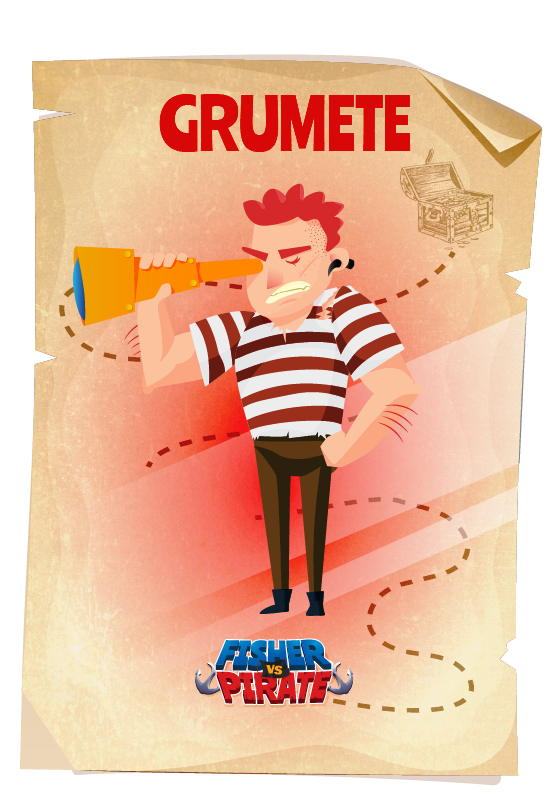
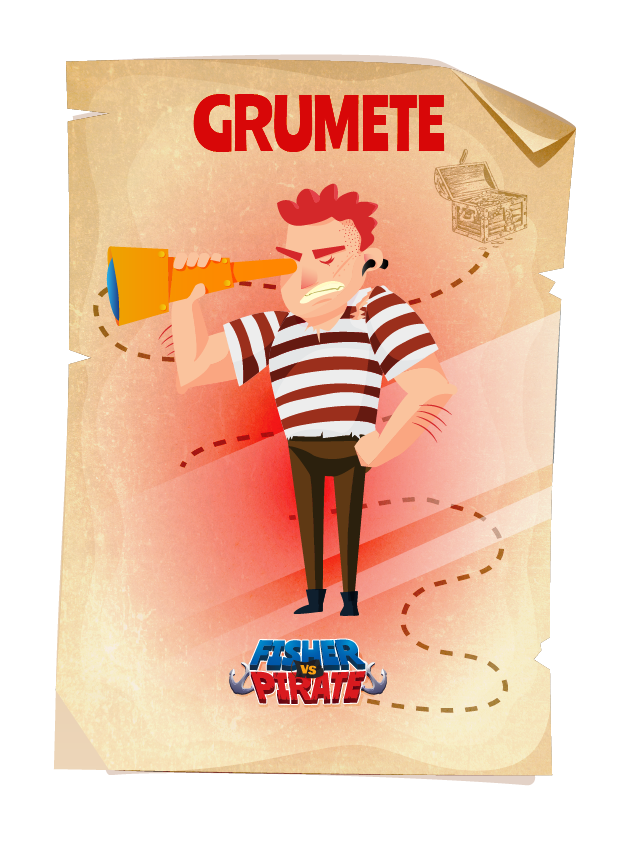
segunda seccion

diff --git a/index.html b/index.html
@@ -69,10 +69,50 @@
         <div class="container navbar-hero justify-content-around">
             <div class="row">
                 <div class="col-xs-12 col-md-4 col-lg-4 text-center background-azul"><span>NFT CONTRACT</span></div>
-                <div class="col-xs-12 col-md-4 col-lg-4 text-center background-azul"><span>TOKEN CONTRACT FVP</span></div>
-                <div class="col-xs-12 col-md-4 col-lg-4 text-center background-azul"><span>TOKEN CONTRACT SC</span></div>
+                <div class="col-xs-12 col-md-4 col-lg-4 text-center background-azul"><span>TOKEN CONTRACT FVP</span>
+                </div>
+                <div class="col-xs-12 col-md-4 col-lg-4 text-center background-azul"><span>TOKEN CONTRACT SC</span>
+                </div>
             </div>
         </div>
+
+    </div>
+
+    <div class="segundo-background">
+
+        <!-- NFT PLAY TO EARN -->
+        <div class="mx-auto d-block letrero-0"><span>NFT PLAY TO EARN</span></div>
+        <div class="container cards-container">
+
+            <div class="row">
+                <div class="card col-xs-12 col-sm-4 col-md-4 col-lg-4 text-center">
+                    <div class="mx-auto d-block letrero-01"><span>CHARACTERS</span></div>
+                    <!-- <img src="img/personajes/grumete.png" alt="" width="80%"loading="lazy"/> -->
+                    <img src="img/personajes/grumete.png" alt="" width="70%" id="character" loading="lazy" />
+                    <img src="img/arrows/left.png" alt="" width="50px" class="left"
+                        onClick={downCharacter}loading="lazy" />
+                    <img src="img/arrows/right.png" alt="" width="50px" class="right"
+                        onClick={addCharacter}loading="lazy" />
+                </div>
+                <div class="card col-xs-12 col-sm-4 col-md-4 col-lg-4 text-center">
+                    <div class="mx-auto d-block letrero-01"><span>SHIPS</span></div>
+                    <!-- <img src={ships} alt="" width="80%" loading="lazy"/> -->
+                    <img src="img/personajes/ship.png" alt="" width="70%" id="character" loading="lazy" />
+                    <img src="img/arrows/left.png" alt="" width="50px" class="left" onClick={downShip}loading="lazy" />
+                    <img src="img/arrows/right.png" alt="" width="50px" class="right" onClick={addShip}loading="lazy" />
+                </div>
+                <div class="card col-xs-12 col-sm-4 col-md-4 col-lg-4 text-center">
+                    <div class="mx-auto d-block letrero-01"><span>PORT / ISLAND</span></div>
+                    <!-- <img src={port} alt="" width="80%" loading="lazy"/> -->
+                    <img src="img/personajes/island.png" alt="" width="70%" id="character" loading="lazy" />
+                    <img src="img/arrows/left.png" alt="" width="50px" class="left" onClick={downPort} loading="lazy" />
+                    <img src="img/arrows/right.png" alt="" width="50px" class="right" onClick={addPort}
+                        loading="lazy" />
+                </div>
+
+            </div>
+        </div>
+
 
     </div>
 
@@ -80,63 +120,6 @@
     <!-- roadmap -->
 
     <div class="section_5" id="roadmap">
-        <!-- <h2>ROADMAP</h2> -->
-        <div class="modal-roadmap d-none" id="modal-roadmap">
-            <span class="close-btn" onClick={close}>X</span>
-            <div class="q3-2021 d-none" id="q3-2021">
-                <h5>Milestone 1</h5>
-                <ul>
-                    <li><i aria-hidden="true" class="far fa-check-circle"></i> Website</li>
-                    <li><i aria-hidden="true" class="far fa-check-circle"></i> Social Networks</li>
-                    <li><i aria-hidden="true" class="far fa-check-circle"></i> Whitepaper and Roadmap</li>
-                </ul>
-            </div>
-            <div class="q4-2021 d-none" id="q4-2021">
-                <h5>Milestone 2</h5>
-                <ul>
-                    <li><i aria-hidden="true" class="far fa-check-circle"></i>Tokenomics 2.0</li>
-                    <li><i aria-hidden="true" class="far fa-check-circle"></i>Web 2.0</li>
-                    <li><i aria-hidden="true" class="far fa-check-circle"></i>NFT 1 Whitelist</li>
-                    <li><i aria-hidden="true" class="far fa-check-circle"></i>NFT Smart Contract</li>
-                    <li><i aria-hidden="true" class="far fa-check-circle"></i>Prevent NFTs 1</li>
-                    <li><i aria-hidden="true" class="far fa-check-circle"></i>Whitepaper 2D</li>
-                    <li><i aria-hidden="true" class="far fa-check-circle"></i>Audit</li>
-                    <li><i aria-hidden="true" class="far fa-check-circle"></i>Prevent NFTs 2</li>
-                    <li><i aria-hidden="true" class="far fa-clock"></i>Token Whitelist</li>
-                    <li><i aria-hidden="true" class="far fa-check-circle"></i>Smart Contract Token</li>
-                    <li><i aria-hidden="true" class="far fa-clock"></i>Pre-sale token</li>
-                    <li><i aria-hidden="true" class="far fa-check-circle"></i>Aggressive Marketing</li>
-                    <li><i aria-hidden="true" class="far fa-clock"></i>Listed on PancakeSwap</li>
-                </ul>
-            </div>
-            <div class="q1-2022 d-none" id="q1-2022">
-                <h5>Milestone 3</h5>
-                <ul>
-                    <li><i aria-hidden="true" class="far fa-circle"></i>Whitepaper 3D Video Game 1.0</li>
-                    <li><i aria-hidden="true" class="far fa-circle"></i>3D Game Preview Trailer</li>
-                    <li><i aria-hidden="true" class="far fa-circle"></i>Prevent NFTs 3</li>
-                    <li><i aria-hidden="true" class="far fa-circle"></i>Web Farm (play to earn)</li>
-                    <li><i aria-hidden="true" class="far fa-circle"></i>Marketplace</li>
-                    <li><i aria-hidden="true" class="far fa-circle"></i>2D videogame closed alpha</li>
-                    <li><i aria-hidden="true" class="far fa-circle"></i>Beta Game 2D</li>
-                </ul>
-            </div>
-            <div class="q2-2022 d-none" id="q2-2022">
-                <h5>Milestone 4</h5>
-                <ul>
-                    <li><i aria-hidden="true" class="far fa-circle"></i>2D Game release</li>
-                </ul>
-            </div>
-            <div class="q3-2022 d-none" id="q3-2022">
-                <h5>Milestone 5</h5>
-                <ul>
-                    <li><i aria-hidden="true" class="far fa-circle"></i>3D videogame closed alpha</li>
-                    <li><i aria-hidden="true" class="far fa-circle"></i>3D videogame open beta</li>
-                    <li><i aria-hidden="true" class="far fa-circle"></i>3D videogame closed beta</li>
-                    <li><i aria-hidden="true" class="far fa-circle"></i>3D videogame realease</li>
-                </ul>
-            </div>
-        </div>
         <div class="roadmap">
             <img src="img/roadmap/roadmap2.png" alt="" loading="lazy" />
             <p class="road_1" onClick={open1}>Q3 2021</p>

diff --git a/styles.css b/styles.css
@@ -250,6 +250,99 @@
 }
 
 
+/* NFT play to earn */
+
+.letrero-0 {
+  margin: 0;
+  color: white;
+  text-align: center;
+  font-size: 3.5rem;
+  padding: 150px;
+}
+
+.letrero-0 {
+  background-image: url("./img/letreros/letrero-00.png");
+  background-size: contain;
+  background-repeat: no-repeat;
+}
+
+.letrero-0 span {
+  margin-top: -70px;
+  display: block;
+}
+
+.cards-container{
+  display: flex;
+  flex-flow: wrap;
+  justify-content: space-between;
+}
+
+.card{
+  max-width: 32%;
+  text-align: center;
+  border: none;
+  background: none;
+}
+
+.left {
+  position: absolute;
+  left: 50px;
+  top: 50%;
+}
+.right {
+  position: absolute;
+  right: 50px;
+  top: 50%;
+}
+
+.left:hover{
+  cursor: pointer;
+}
+
+.right:hover{
+  cursor: pointer;
+}
+
+#character {
+  margin-left: 63px;
+}
+
+@media(max-width:760px){
+  .letrero-0{
+      font-size: 2rem;
+  }
+  .card{
+      max-width: unset;
+  }
+  .left{
+      left: 30px;
+  }
+  .right{
+      right: 30px;
+  }
+}
+
+.letrero-01 {
+  background-image: url("./img/letreros/letrero-0.png");
+  background-size: cover;
+  width: 180px;
+  height: 60px;
+}
+
+.letrero-01 span {
+  margin-top: 10px;
+  display: block;
+  font-size: 25px;
+  color: #6d3216
+}
+
+.segundo-background {
+  background-image: url("./img/fondo-10.png");
+  background-size: cover;
+  background-repeat: no-repeat;
+}
+
+
 /* roadmap */
 
 .roadmap {
